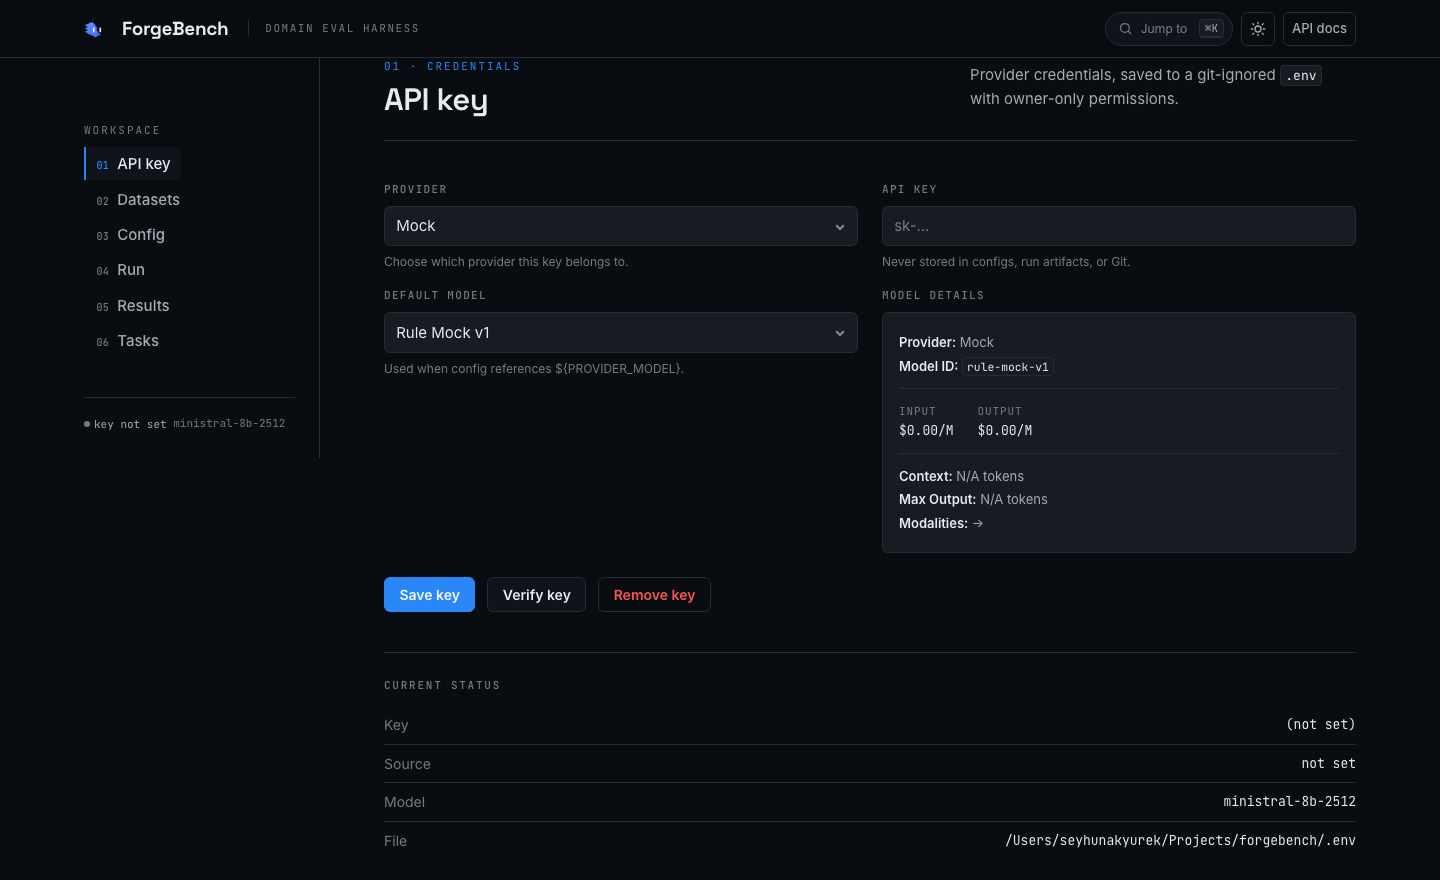
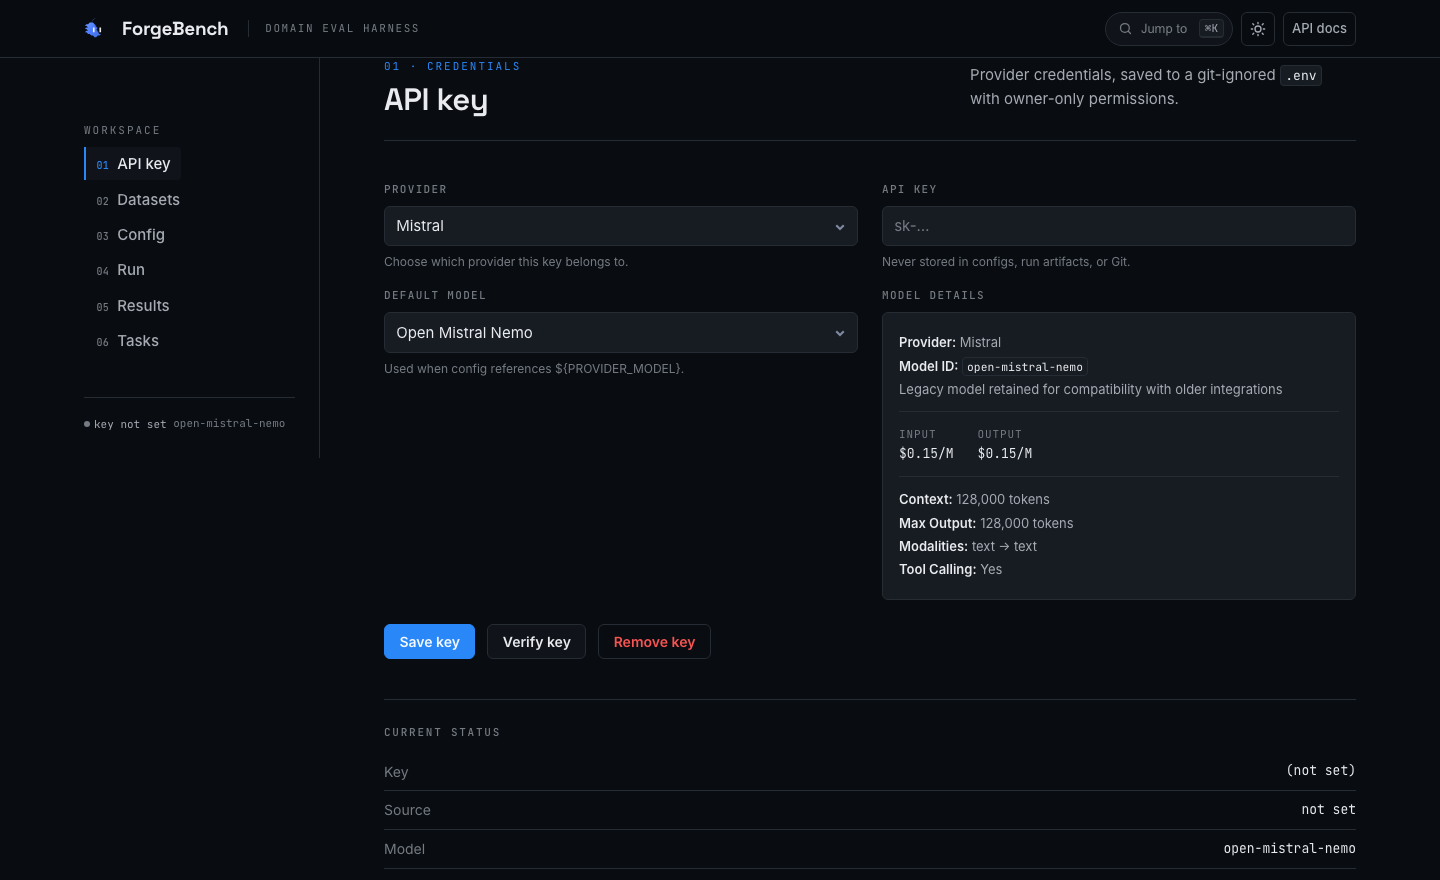
Refresh dashboard screenshots with a real provider selected
Re-capture all seven README screenshots from the running dashboard via
Playwright at the same dimensions as before. The API-key view now shows
Mistral selected with its default model (open-mistral-nemo) instead of the
mock provider, so the hero demonstrates the BYOK flow end to end.

Captured against a key-free .env so no masked fragments of a real key end
up in the public README; the status panel shows the clean "not set" state.
Results/compare/datasets/tasks and the light + narrow shots are refreshed
with current data. README alt text and the API-key bullet describe what the
screenshots now show.

diff --git a/README.md b/README.md
@@ -13,7 +13,7 @@ ForgeBench is a reproducible, provider-agnostic benchmark harness for answering 
 
 The first benchmark domain is **financial and transaction operations**: synthetic banking, accounting, claims, and e-commerce scenarios (transaction exception classification and reconciliation triage). No private data, no GPU, no API key required to run the pipeline.
 
-![ForgeBench dashboard — API key view](docs/screenshots/dashboard.png)
+![ForgeBench dashboard — API key view with Mistral selected and its default model](docs/screenshots/dashboard.png)
 
 ## ✨ Key Features
 
@@ -100,7 +100,7 @@ forgebench dashboard   # http://127.0.0.1:8502
 
 The dashboard is a single-page app served by FastAPI. Navigate with the left rail, or press <kbd>⌘K</kbd> / <kbd>Ctrl K</kbd> to jump straight to any view:
 
-- **01 API key** — provider selector (Mock, Mistral, OpenAI, Anthropic, Google, OpenRouter), model dropdown populated from [models.dev](https://models.dev), key save/verify/remove, live masked status.
+- **01 API key** — provider selector (Mock, Mistral, OpenAI, Anthropic, Google, OpenRouter). Picking a provider fills the model dropdown with its full catalog from [models.dev](https://models.dev) and defaults to the provider's default model (the screenshot shows Mistral and its default, `open-mistral-nemo`). Save, verify, or remove a key, with live masked status and cost/context details for the selected model.
 - **02 Datasets** — browse datasets and splits, inspect case tables, download JSON.
 - **03 Config** — edit experiment YAML, validated before saving.
 - **04 Run** — pick a config, optional case limit, live progress bar, run id.
@@ -115,7 +115,7 @@ It ships a dark-first **Cobalt** theme with a light mode (toggle, top-right), an
 | **Datasets** | **Custom tasks** |
 | ![Dataset browser](docs/screenshots/datasets.png) | ![Custom tasks view](docs/screenshots/tasks.png) |
 | **Light theme** | **Narrow layout** |
-| ![Light theme](docs/screenshots/theme-light.png) | ![Narrow layout](docs/screenshots/mobile.png) |
+| ![Light theme](docs/screenshots/theme-light.png) | ![Narrow layout — API key view with Mistral and its default model](docs/screenshots/mobile.png) |
 
 ## 📋 CLI Reference
 
